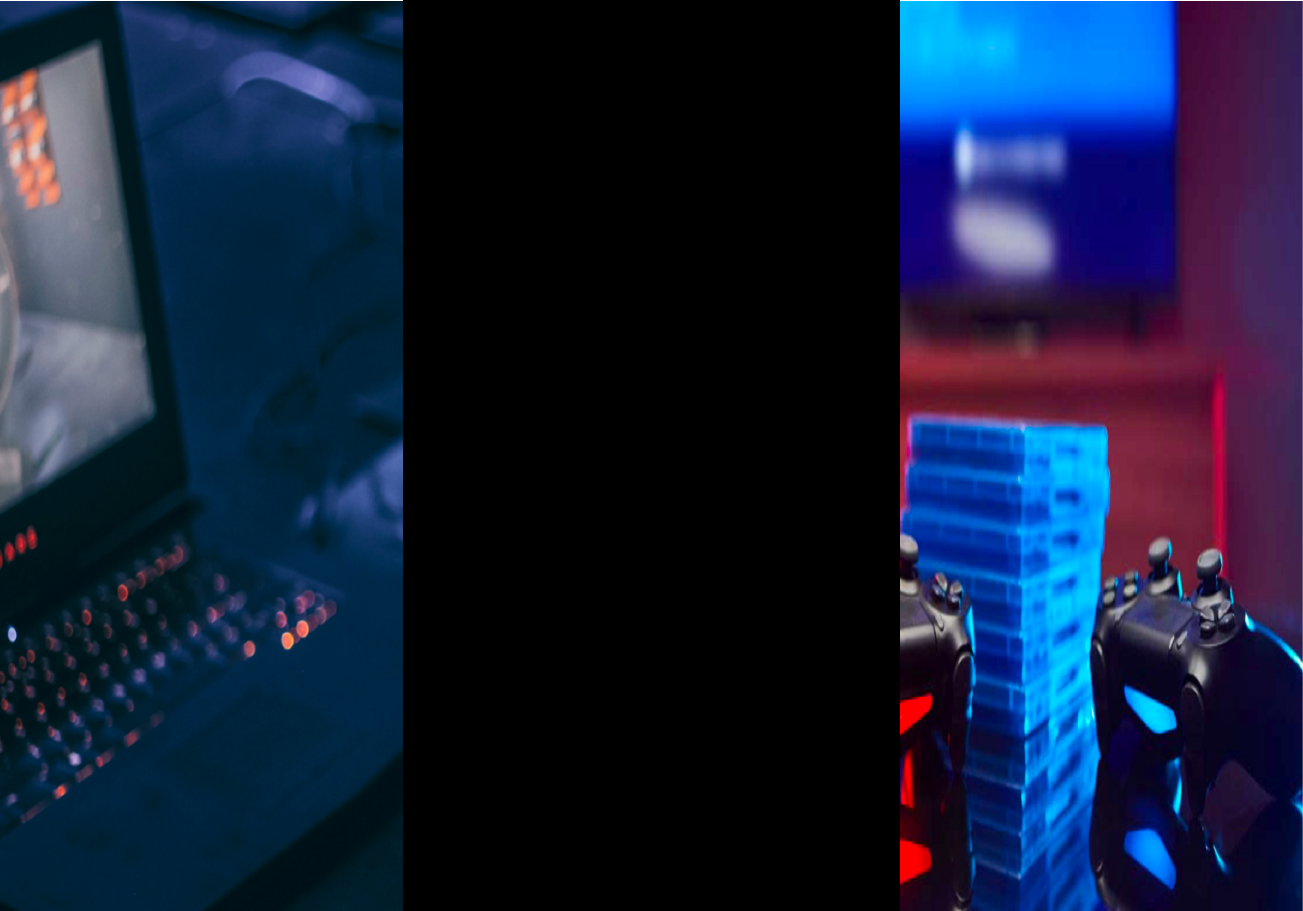
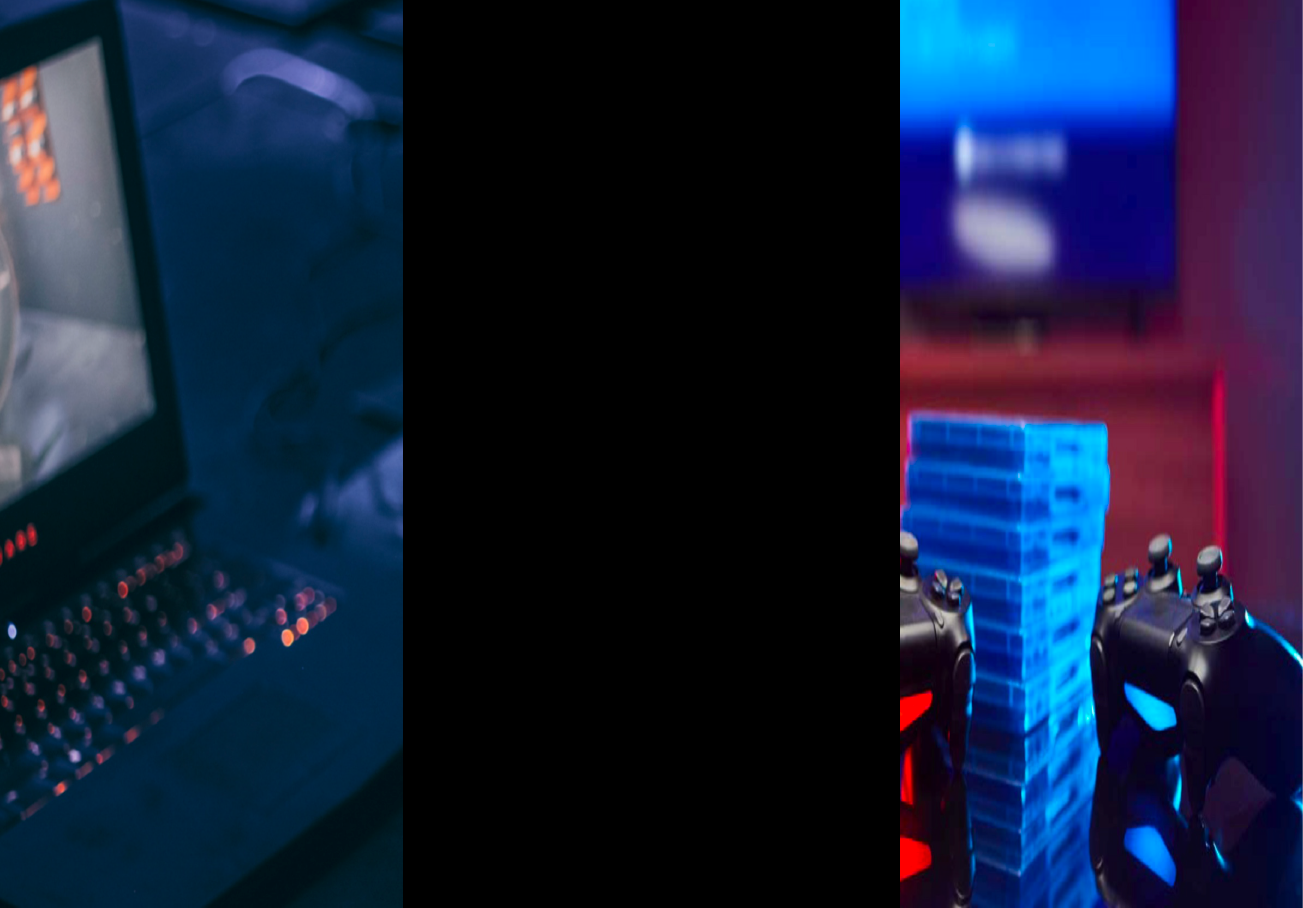
new hero img

diff --git a/index.html b/index.html
@@ -48,7 +48,7 @@
 
       <!-- ======= MOBILE NAV BAR =======  -->
       <div class="logo d-block d-lg-none">
-        <a href="#main"><img src="assets/dell_images/Dell-Logos/dell-gaming-logo.png" width="200" alt="dell gaming logo" class="img-fluid"></a>
+        <a href="#main" style="margin-left: 15px;"><img src="assets/dell_images/Dell-Logos/dell-gaming-logo.png" width="200" alt="dell gaming logo" class="img-fluid"></a>
         <a class="my-mobile-nav" href="signin.html">Sign In</a>
         <a class="my-mobile-nav" href="mycart.html"><img id="svg" src="assets/dell_images/icons/cart.svg" alt="checkout icon" class="img-fluid"></a>
       </div>
@@ -77,64 +77,64 @@
         <ul class="nav-inner">
 
           <!-- Product Brands Drop Down -->
-          <li class="drop-down"><a style="padding: 8px 15px;">Product Brands</a>
+          <li class="drop-down"><a href="#main" style="padding: 8px 15px;">Product Brands</a>
             <ul>
               <!-- Alienware Drop Down -->
-              <li class="drop-down"><a href="">Alienware</a>
+              <li class="drop-down"><a href="#main">Alienware</a>
                 <ul>
                   <!-- Alienware Gaming PCs Drop Down -->
-                  <li class="drop-down"><a href="">Alienware Gaming PCs</a>
+                  <li class="drop-down"><a href="#main">Alienware Gaming PCs</a>
                     <ul>
-                      <li><a href="#">Alienware Desktops</a></li>
+                      <li><a href="#main">Alienware Desktops</a></li>
                       <li><a href="Shop1-page.html">Alienware Laptops</a></li>
                     </ul>
                   </li>
                   <!-- Alienware Accessories Drop Down -->
-                  <li class="drop-down"><a >Alienware Accessories</a>
+                  <li class="drop-down"><a href="#main" >Alienware Accessories</a>
                     <ul>
-                      <li><a href="#">Alienware Gaming</a></li>
-                      <li><a href="#">Alienware Keyboards</a></li>
-                      <li><a href="#">Alienware Mice</a></li>
-                      <li><a href="#">Alienware Monitors</a></li>
+                      <li><a href="#main">Alienware Gaming</a></li>
+                      <li><a href="#main">Alienware Keyboards</a></li>
+                      <li><a href="#main">Alienware Mice</a></li>
+                      <li><a href="#main">Alienware Monitors</a></li>
                     </ul>
                   </li>
                 </ul>
               </li>
 
               <!-- G Series Gaming PCs Tab -->
-              <li><a href="">G Series Gaming PCs</a></li>
+              <li><a href="#main">G Series Gaming PCs</a></li>
 
               <!-- Nintendo Drop Down -->
-              <li class="drop-down"><a href="">Nintendo</a>
+              <li class="drop-down"><a href="#main">Nintendo</a>
                 <ul>
-                  <li><a href="">Nintendo Consoles</a></li>
-                  <li><a href="">Nintendo Accessories</a></li>
-                  <li><a href="">Nintendo Games</a></li>
+                  <li><a href="#main">Nintendo Consoles</a></li>
+                  <li><a href="#main">Nintendo Accessories</a></li>
+                  <li><a href="#main">Nintendo Games</a></li>
                 </ul>
               </li>
 
               <!-- Playstation Drop Down -->
-              <li class="drop-down"><a href="#">Playstation</a>
+              <li class="drop-down"><a href="#main">Playstation</a>
                 <ul>
-                  <li><a href="#">Playstation Consoles</a></li>
-                  <li><a href="#">Playstation Accessories</a></li>
-                  <li><a href="#">Playstation Games</a></li>
+                  <li><a href="#main">Playstation Consoles</a></li>
+                  <li><a href="#main">Playstation Accessories</a></li>
+                  <li><a href="#main">Playstation Games</a></li>
                 </ul>
               </li>
 
               <!-- Xbox Drop Down -->
-              <li class="drop-down"><a href="#">Xbox</a>
+              <li class="drop-down"><a href="#main">Xbox</a>
                 <ul>
-                  <li><a href="#">Xbox Consoles</a></li>
-                  <li><a href="#">Xbox Accessories</a></li>
-                  <li><a href="#">Xbox Games</a></li>
+                  <li><a href="#main">Xbox Consoles</a></li>
+                  <li><a href="#main">Xbox Accessories</a></li>
+                  <li><a href="#main">Xbox Games</a></li>
                 </ul>
               </li>
 
               <!-- VR Drop Down -->
-              <li class="drop-down"><a href="#">VR</a>
+              <li class="drop-down"><a href="#main">VR</a>
                 <ul>
-                  <li><a href="#">HTC Vive</a></li>
+                  <li><a href="#main">HTC Vive</a></li>
                 </ul>
               </li>
             </ul>
@@ -142,13 +142,13 @@
           <!-- END of Product Brands Drop Down -->
 
           <!-- Hardware Drop Down -->
-          <li class="drop-down"><a href="" style="padding: 8px 15px;">Hardware</a>
+          <li class="drop-down"><a href="#main" style="padding: 8px 15px;">Hardware</a>
             <ul>
               <li><a href="byo1.html">Build your Own Bundle</a></li>
-              <li><a href="#">Gaming Desktop</a></li>
-              <li><a href="#">Gaming Laptops</a></li>
-              <li><a href="#">Gaming Monitors</a></li>
-              <li><a href="#">Gaming Accessories</a></li>
+              <li><a href="#main">Gaming Desktop</a></li>
+              <li><a href="#main">Gaming Laptops</a></li>
+              <li><a href="#main">Gaming Monitors</a></li>
+              <li><a href="#main">Gaming Accessories</a></li>
             </ul>
           </li>
 
@@ -156,29 +156,29 @@
           <li><a href="compare.html" style="padding: 8px 15px;">Compare</a></li>
 
           <!-- Deals Drop Down -->
-          <li class="drop-down"><a href="" style="padding: 8px 15px;">Deals</a>
+          <li class="drop-down"><a href="#main" style="padding: 8px 15px;">Deals</a>
             <ul>
-              <li><a href="#">Gaming Deals</a></li>
-              <li><a href="#">Dell Rewards</a></li>
-              <li><a href="#">View Special Offers</a></li>
+              <li><a href="#main">Gaming Deals</a></li>
+              <li><a href="#main">Dell Rewards</a></li>
+              <li><a href="#main">View Special Offers</a></li>
             </ul>
           </li>
 
           <!-- Financing Drop Down -->
-          <li class="drop-down"><a href="" style="padding: 8px 15px;">Financing</a>
+          <li class="drop-down"><a href="#main" style="padding: 8px 15px;">Financing</a>
             <ul>
-              <li><a href="#">Make a Payment</a></li>
-              <li><a href="#">Financing with Dell Preferred Account</a></li>
-              <li><a href="#">Apply for Credit</a></li>
+              <li><a href="#main">Make a Payment</a></li>
+              <li><a href="#main">Financing with Dell Preferred Account</a></li>
+              <li><a href="#main">Apply for Credit</a></li>
             </ul>
           </li>
 
           <!-- Help Drop Down -->
-          <li class="drop-down"><a href="" style="padding: 8px 15px;">Help</a>
+          <li class="drop-down"><a href="#main" style="padding: 8px 15px;">Help</a>
             <ul>
-              <li><a href="#">Contact Us</a></li>
-              <li><a href="#">Order Support</a></li>
-              <li><a href="#">Product Support</a></li>
+              <li><a href="#main">Contact Us</a></li>
+              <li><a href="#main">Order Support</a></li>
+              <li><a href="#main">Product Support</a></li>
             </ul>
           </li>
 

diff --git a/assets/css/home_style.css b/assets/css/home_style.css
@@ -365,7 +365,7 @@ path:hover {
 #hero {
   width: 100%;
   height: 100vh;
-  background: url("../dell_images/IMG_0918.JPG");
+  background: url("../dell_images/hero2.png");
   background-size: cover;
   position: relative;
 }
